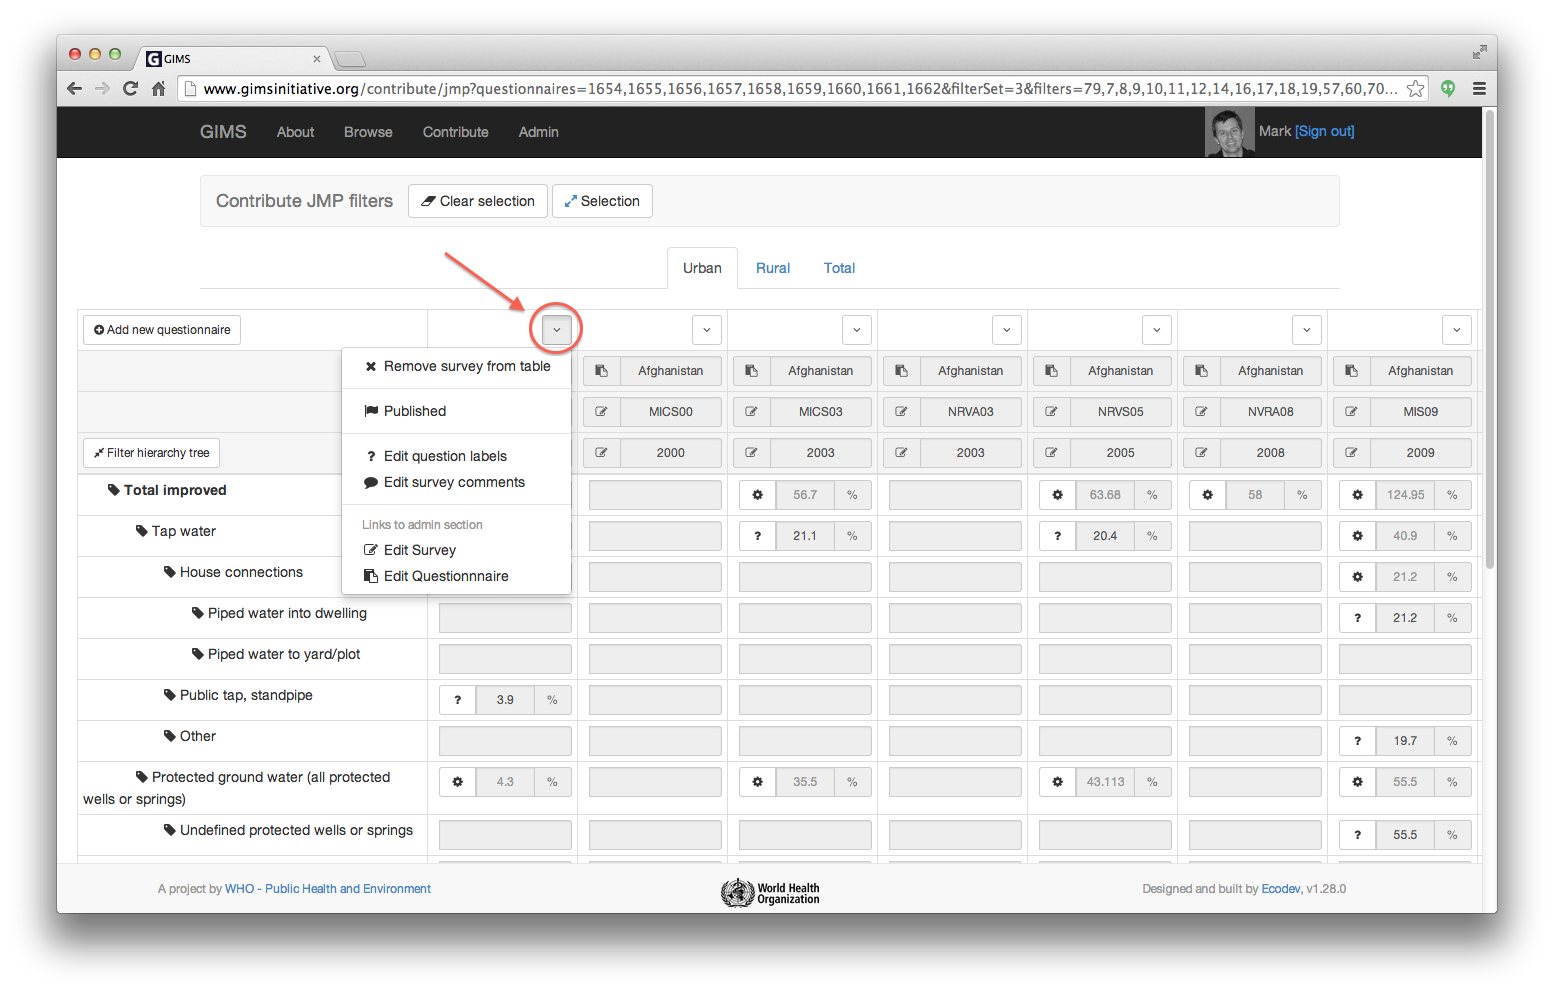
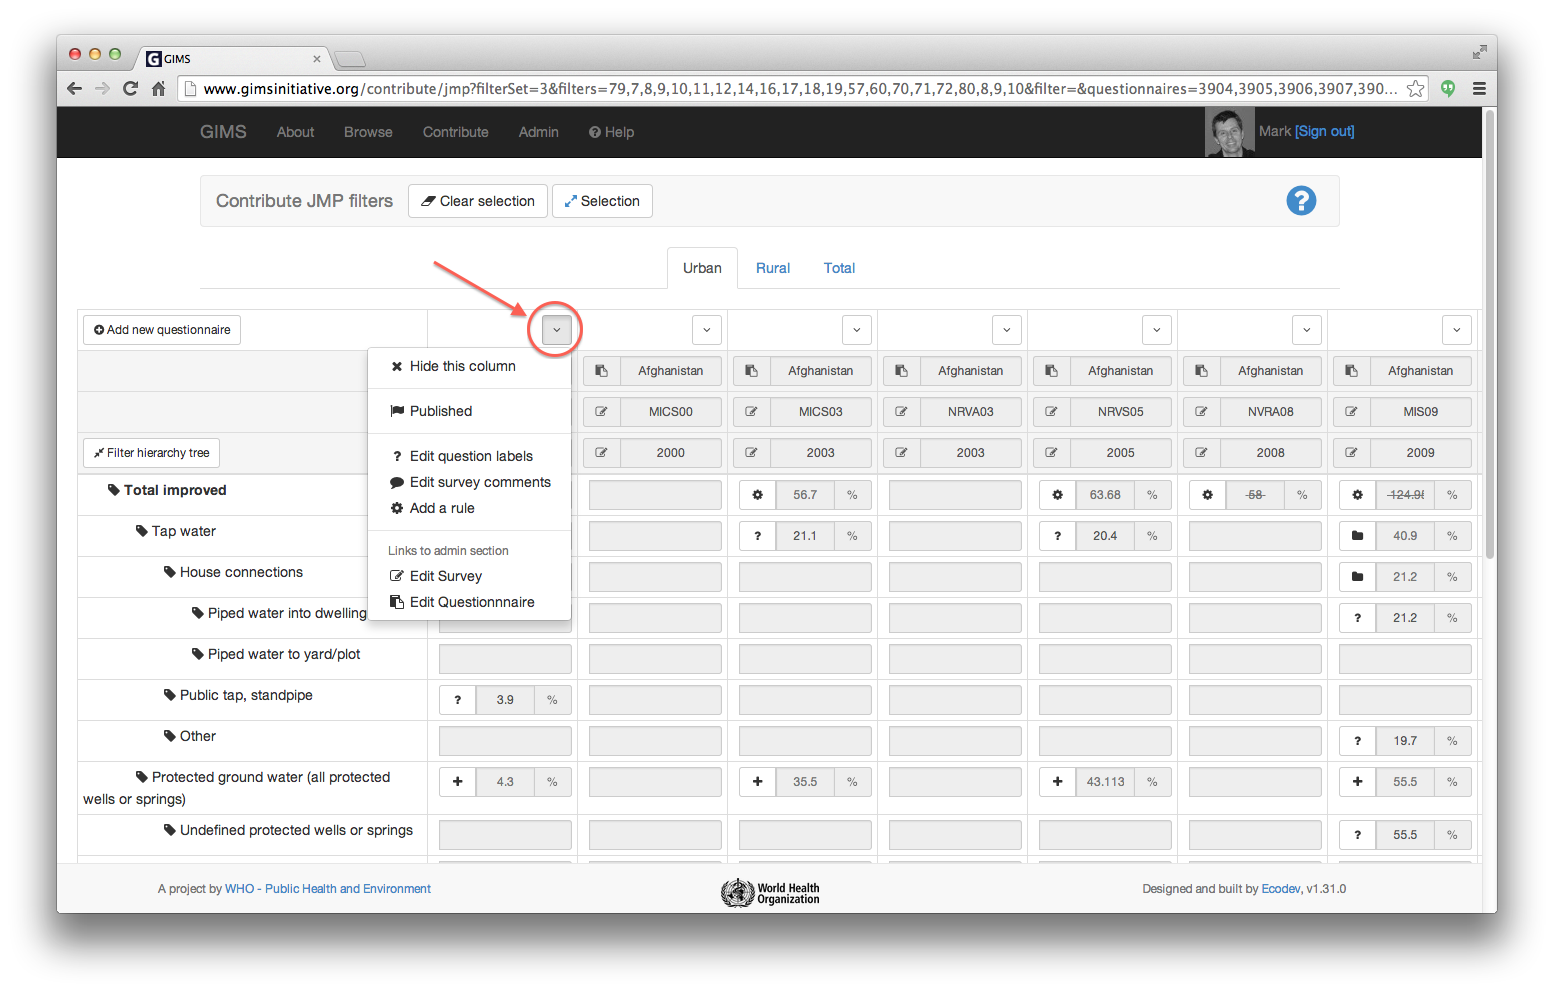
Update of documentation

diff --git a/docs/content/data_input2.rst b/docs/content/data_input2.rst
@@ -36,9 +36,9 @@ to an interface that enables you to manage both *existing* data as well as
     :width: 100%
     :alt: Edit JMP questionnaires
 
-The typical flow will be to: 1) select your **country** in the "Questionnaires
-(columns) and 2) choose in the "Filter (rows) the **filter set** you need
-(ex. "water: use of improved sources (JMP data)). The resulting table looks
+The typical flow will be to: 1) choose in the "Filter (rows) the **filter set** you need
+(ex. "water: use of improved sources (JMP data)) and 2) select your **country** in the "Questionnaires
+(columns). The resulting table looks
 very close to the former Excel country files.
 
 .. note::
@@ -47,33 +47,37 @@ very close to the former Excel country files.
     once the table vue is generated. To access these menus again, simply
     click on the "Selection" button at the top.
 
-.. note::
-
-    This interface also enables you to select a Survey and get the
-    corresponding questionnaires or via the "Selected" tab choose several
-    questionnaires from different countries to display them side by side…
-
 .. image:: img/contribute_jmp2.png
     :width: 100%
     :alt: Edit the JMP questionnaire of one country
 
-Actions can be performed at different levels. The first is the
-questionnaire. You can "Remove survey from table" (the equivalent of hiding
-the column in Excel).
+.. note::
+
+    This interface also enables you to select a Survey and get the
+    corresponding questionnaires or via the "Questionnaires" tab choose several
+    questionnaires from different countries to display them side by side…
+
+From here, actions can be performed at different levels depending on your access rights. The first is at the level of the questionnaire by clicking on the drop-down arrow at the top (see screen copy below).
+You can "Hide this column" (the equivalent of hiding a column in Excel).
 
 .. image:: img/contribute_jmp3.png
     :width: 100%
     :alt: Edition tools for a JMP questionnaire
 
+.. note::
+
+    If you wish to hide several columns (questionnaires) rapidly, the simplest is to go to the "Questionnaires" tab and there, click on the ones you wish to dismiss.
+
+.. image:: img/contribute_jmp3b.png
+    :width: 100%
+    :alt: Hiding several questionnaire rapidly
 
 .. _DI edit JMP:
 
-Edit a questionnaire
-^^^^^^^^^^^^^^^^^^^^
+Editing a questionnaire
+^^^^^^^^^^^^^^^^^^^^^^^
 
-If you have the access rights, you can edit the question labels (so called
-"original denomination" in the Excel country files), the survey comments as
-well as the survey and questionnaire.
+If you are granted the access rights, you can edit the question labels (so called "original denomination" in the Excel country files), the survey comments as well as the survey and questionnaire.
 
 .. image:: img/contribute_jmp4.png
     :width: 100%
@@ -84,8 +88,12 @@ override with a manually entered value: the symbol will then change to a
 question mark. If you erase the value you entered, the initial :term:`rule`
 will automatically apply again.
 
-Data that has a question mark [2] has been entered manually and can be edited
+Data with a folder icon [2] results from the sum of the filter's children. You can also override this total with a manually entered value: the symbol will then change to a question mark. If you erase the value you entered, the initial computation will automatically apply again.
+
+Data that has a question mark [3] has been entered manually and can be edited
 if needed.
+
+Data that has a plus (+) icon [4] results from the sum of a number of other filter elements as defined in the :ref:`Summands`.
 
 .. image:: img/contribute_jmp5.png
     :width: 100%
@@ -153,28 +161,20 @@ confirmation message appears, click again on "Delete".
 NSA questionnaires
 ------------------
 
-.. This section will have to be updated following change of workflow !
-
 Once you have cliced on the "NSA questionnaire" button, you will be directed
-to an interface that enables you to manage both *existing* data (select NSA
-container) as well as *new info* (Create NSA container).
+to an interface that enables you to manage both *existing* data as well as *new info*. You must first select the country you wish to work on.
 
 .. image:: img/contribute_nsa1.png
     :width: 100%
     :alt: Edit NSA questionnaires
 
-The typical initial flow will be to: [1] "Create an NSA container" (i.e. filter
-set) by giving it a relevant name, typically "CountryName wat/san sector data".
+If you select a country for which there is **no sector data yet**, a first questionnaire is automatically created with lines to enter an initial equipment / facility. Enter a standard questionnaire "Code" (ex. "AFGS-00"), the "Year" (ex. "2000"), the "Facility name" (ex. "Public standpipes") and corresponding numbers… and then click on the blue "Save new elements" button at the top.
 
 .. image:: img/contribute_nsa2.png
     :width: 100%
     :alt: Create NSA filter and filter set
 
-Then [2] add one or several new questionnaires and [3] add one or several
-new equipments (facilities) for each questionnaire. Enter corresponding
-labels and numbers… for each part (urban, rural and total). Once the data
-has been entered, click on the blue "Save new elements" button at the top:
-the percentage are automatically calculated.
+If, for your country, **sector data already exists**, GIMS will automatically recall the existing data enabling you to modify existing data or add one or several new questionnaires [1] as well as one or several new equipments (facilities) for each questionnaire [2]. Don't forget to enter corresponding numbers for each part (urban, rural and total) [3] ! Once the data has been entered, click on the blue "Save new elements" button at the top: the percentages are automatically (re)calculated.
 
 .. note::
 
@@ -184,16 +184,6 @@ the percentage are automatically calculated.
 .. image:: img/contribute_nsa3.png
     :width: 100%
     :alt: Add new questionnaires and equipments
-
-If you return to update and/or enter new data, "Select the NSA container"
-you have already created as well as the country: the existing questionnaires
-will show up. You can edit the existing data, add new facilities as well as
-new questionnaires.
-
-.. note::
-
-    The current data flow and management will be greatly simplified in
-    version 1.30 !
 
 
 .. _DI GLAAS:

diff --git a/docs/content/filter.rst b/docs/content/filter.rst
@@ -37,6 +37,17 @@ keep them, don't forget to click on the blue "Save" button.
     :width: 100%
     :alt: change the color for the filter
 
+.. _Summands:
+
+Summands
+^^^^^^^^
+
+If in most cases the filter structure provides a logical view of how elements add-up (a parent is typically the sum of it's children), some filters can be the sum of several other filters dispatched within the filter tree. Such calculations are defined in the "Summands" field by simply inserting the filter elements you wish to add-up.
+
+.. image:: img/filters4.png
+    :width: 100%
+    :alt: summands
+
 .. note::
 
     You can directly edit parent and/or child filters by clicking on the

diff --git a/docs/content/basics.rst b/docs/content/basics.rst
@@ -27,6 +27,11 @@ GIMS has three main sections:
     :width: 100%
     :alt: Admin section
 
+* **Help** is the link to the documentation you are reading. On most pages you will find question marks that provide an initial reminder of what you can do where you are as well as a contextual link to a specific section of the documentation.
+
+.. image:: img/help.png
+    :width: 100%
+    :alt: help section
 
 .. _sign-in:
 
